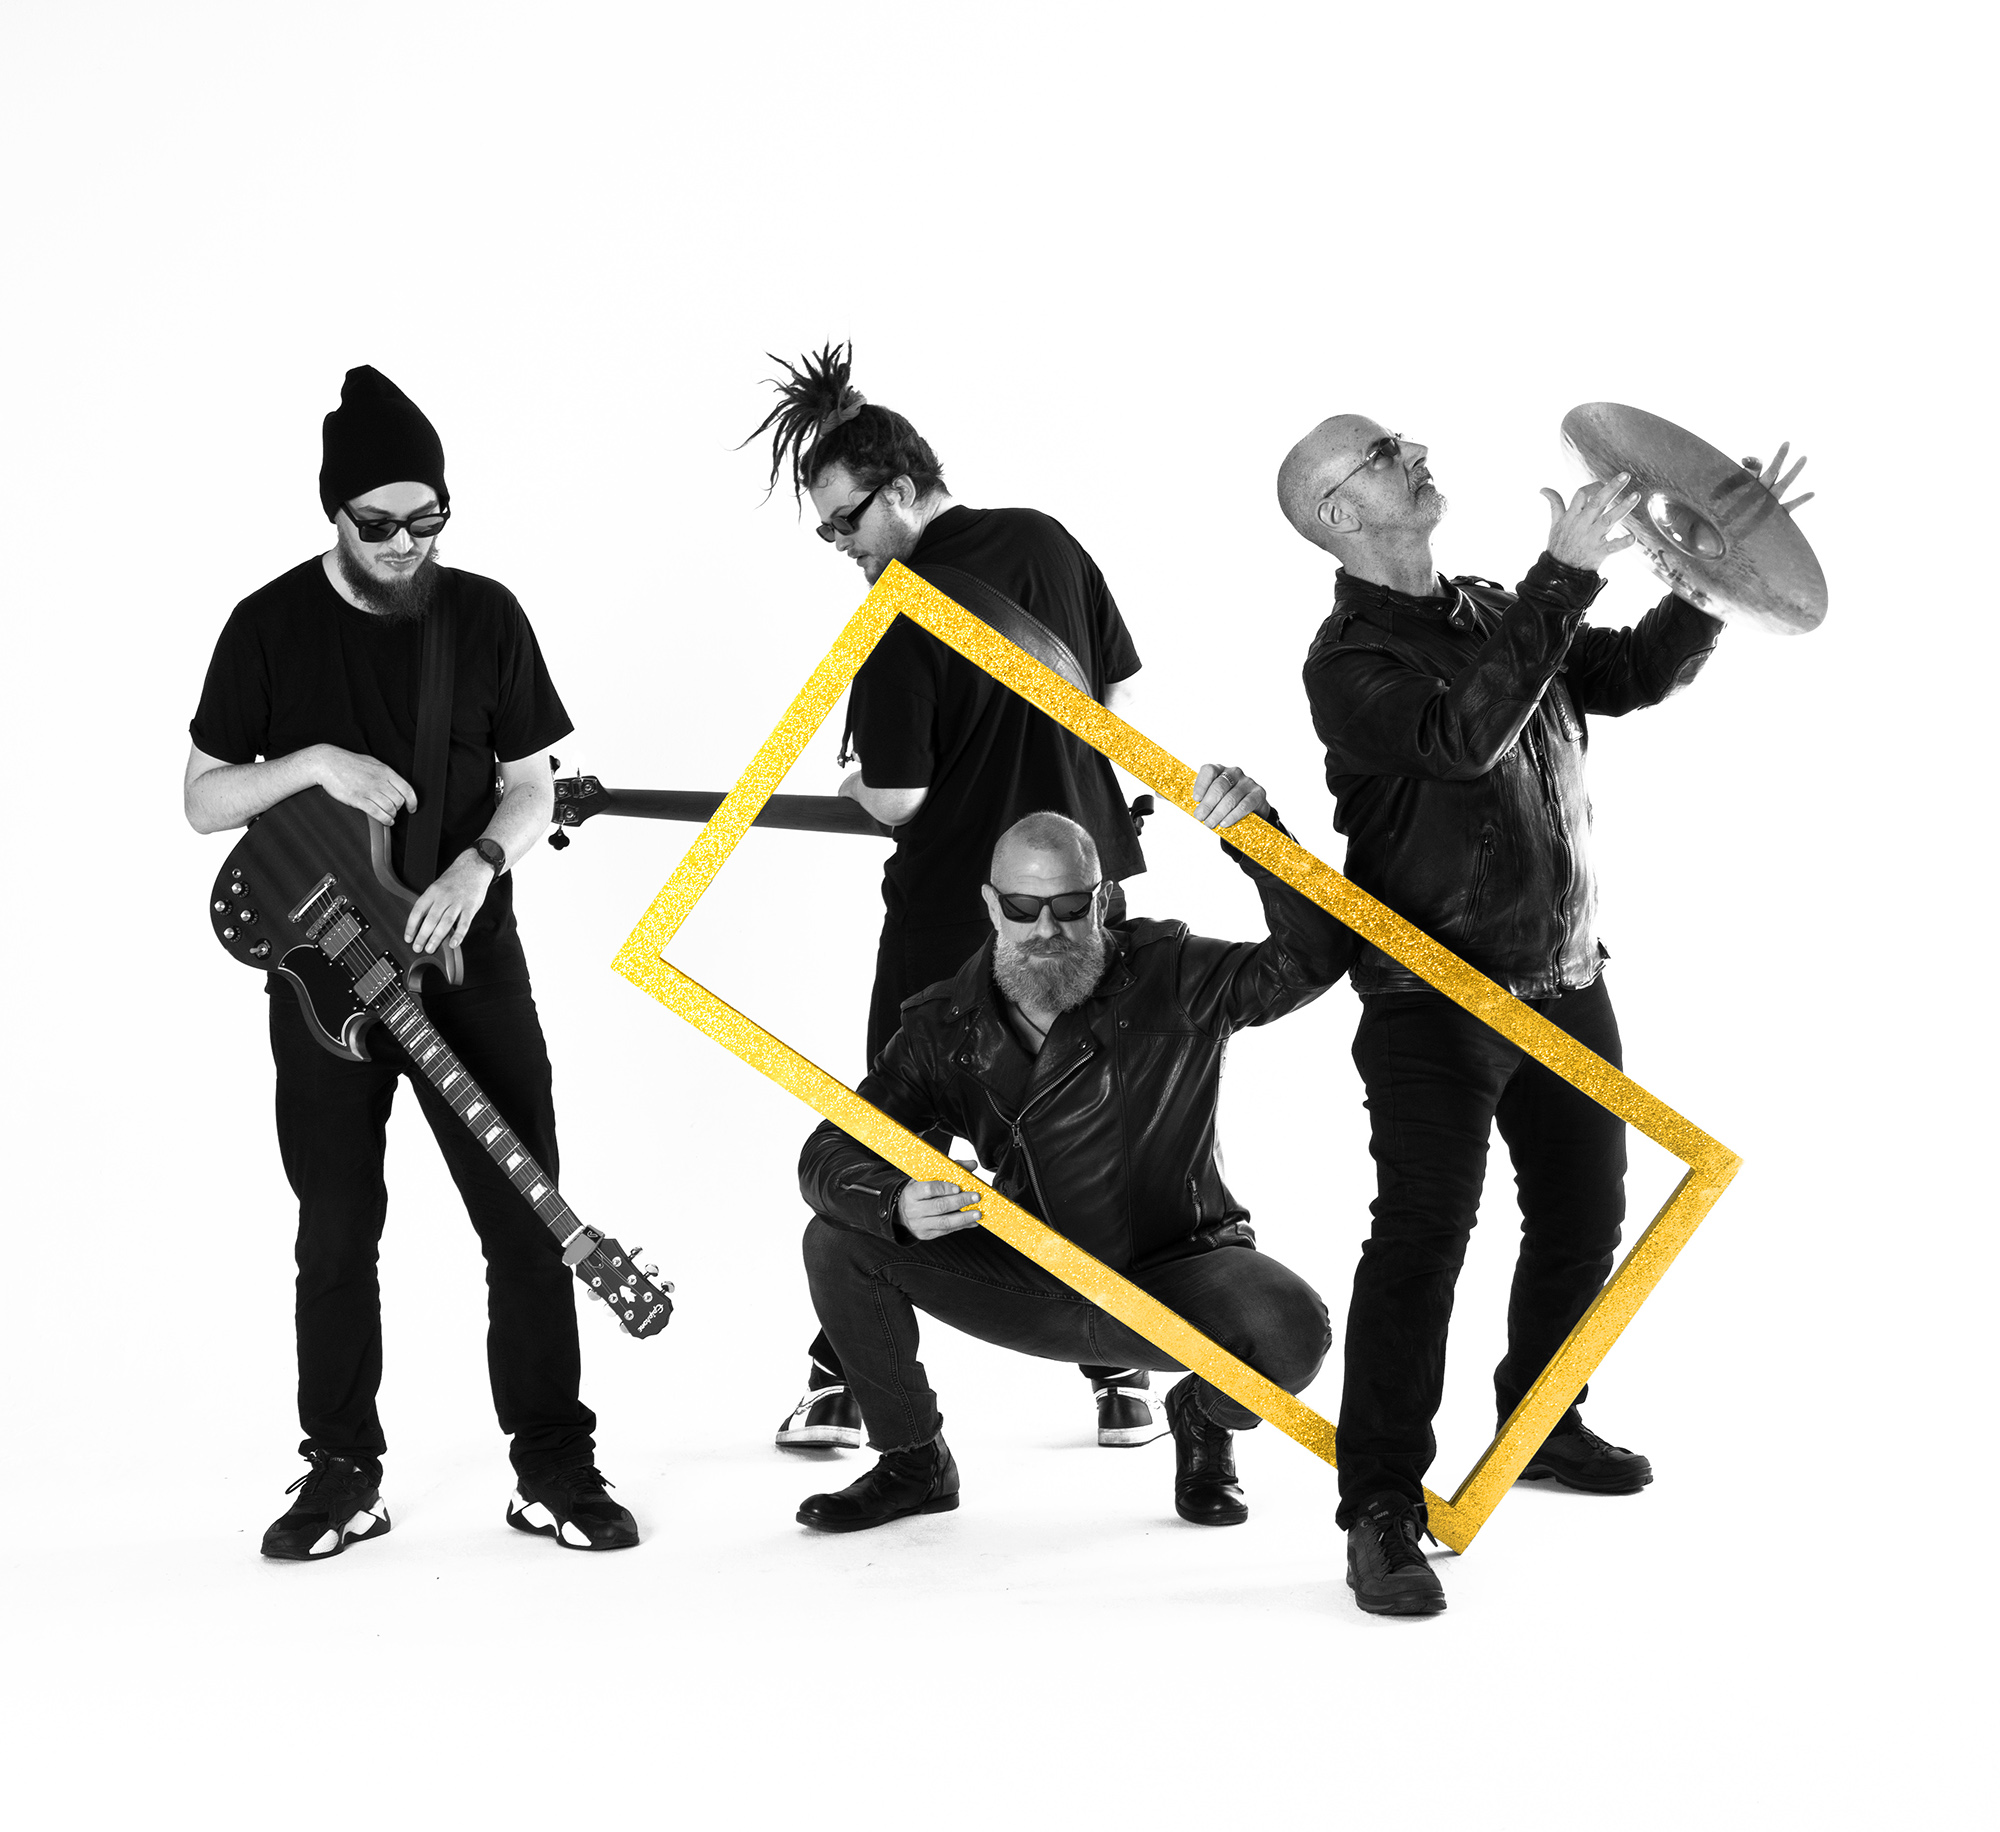
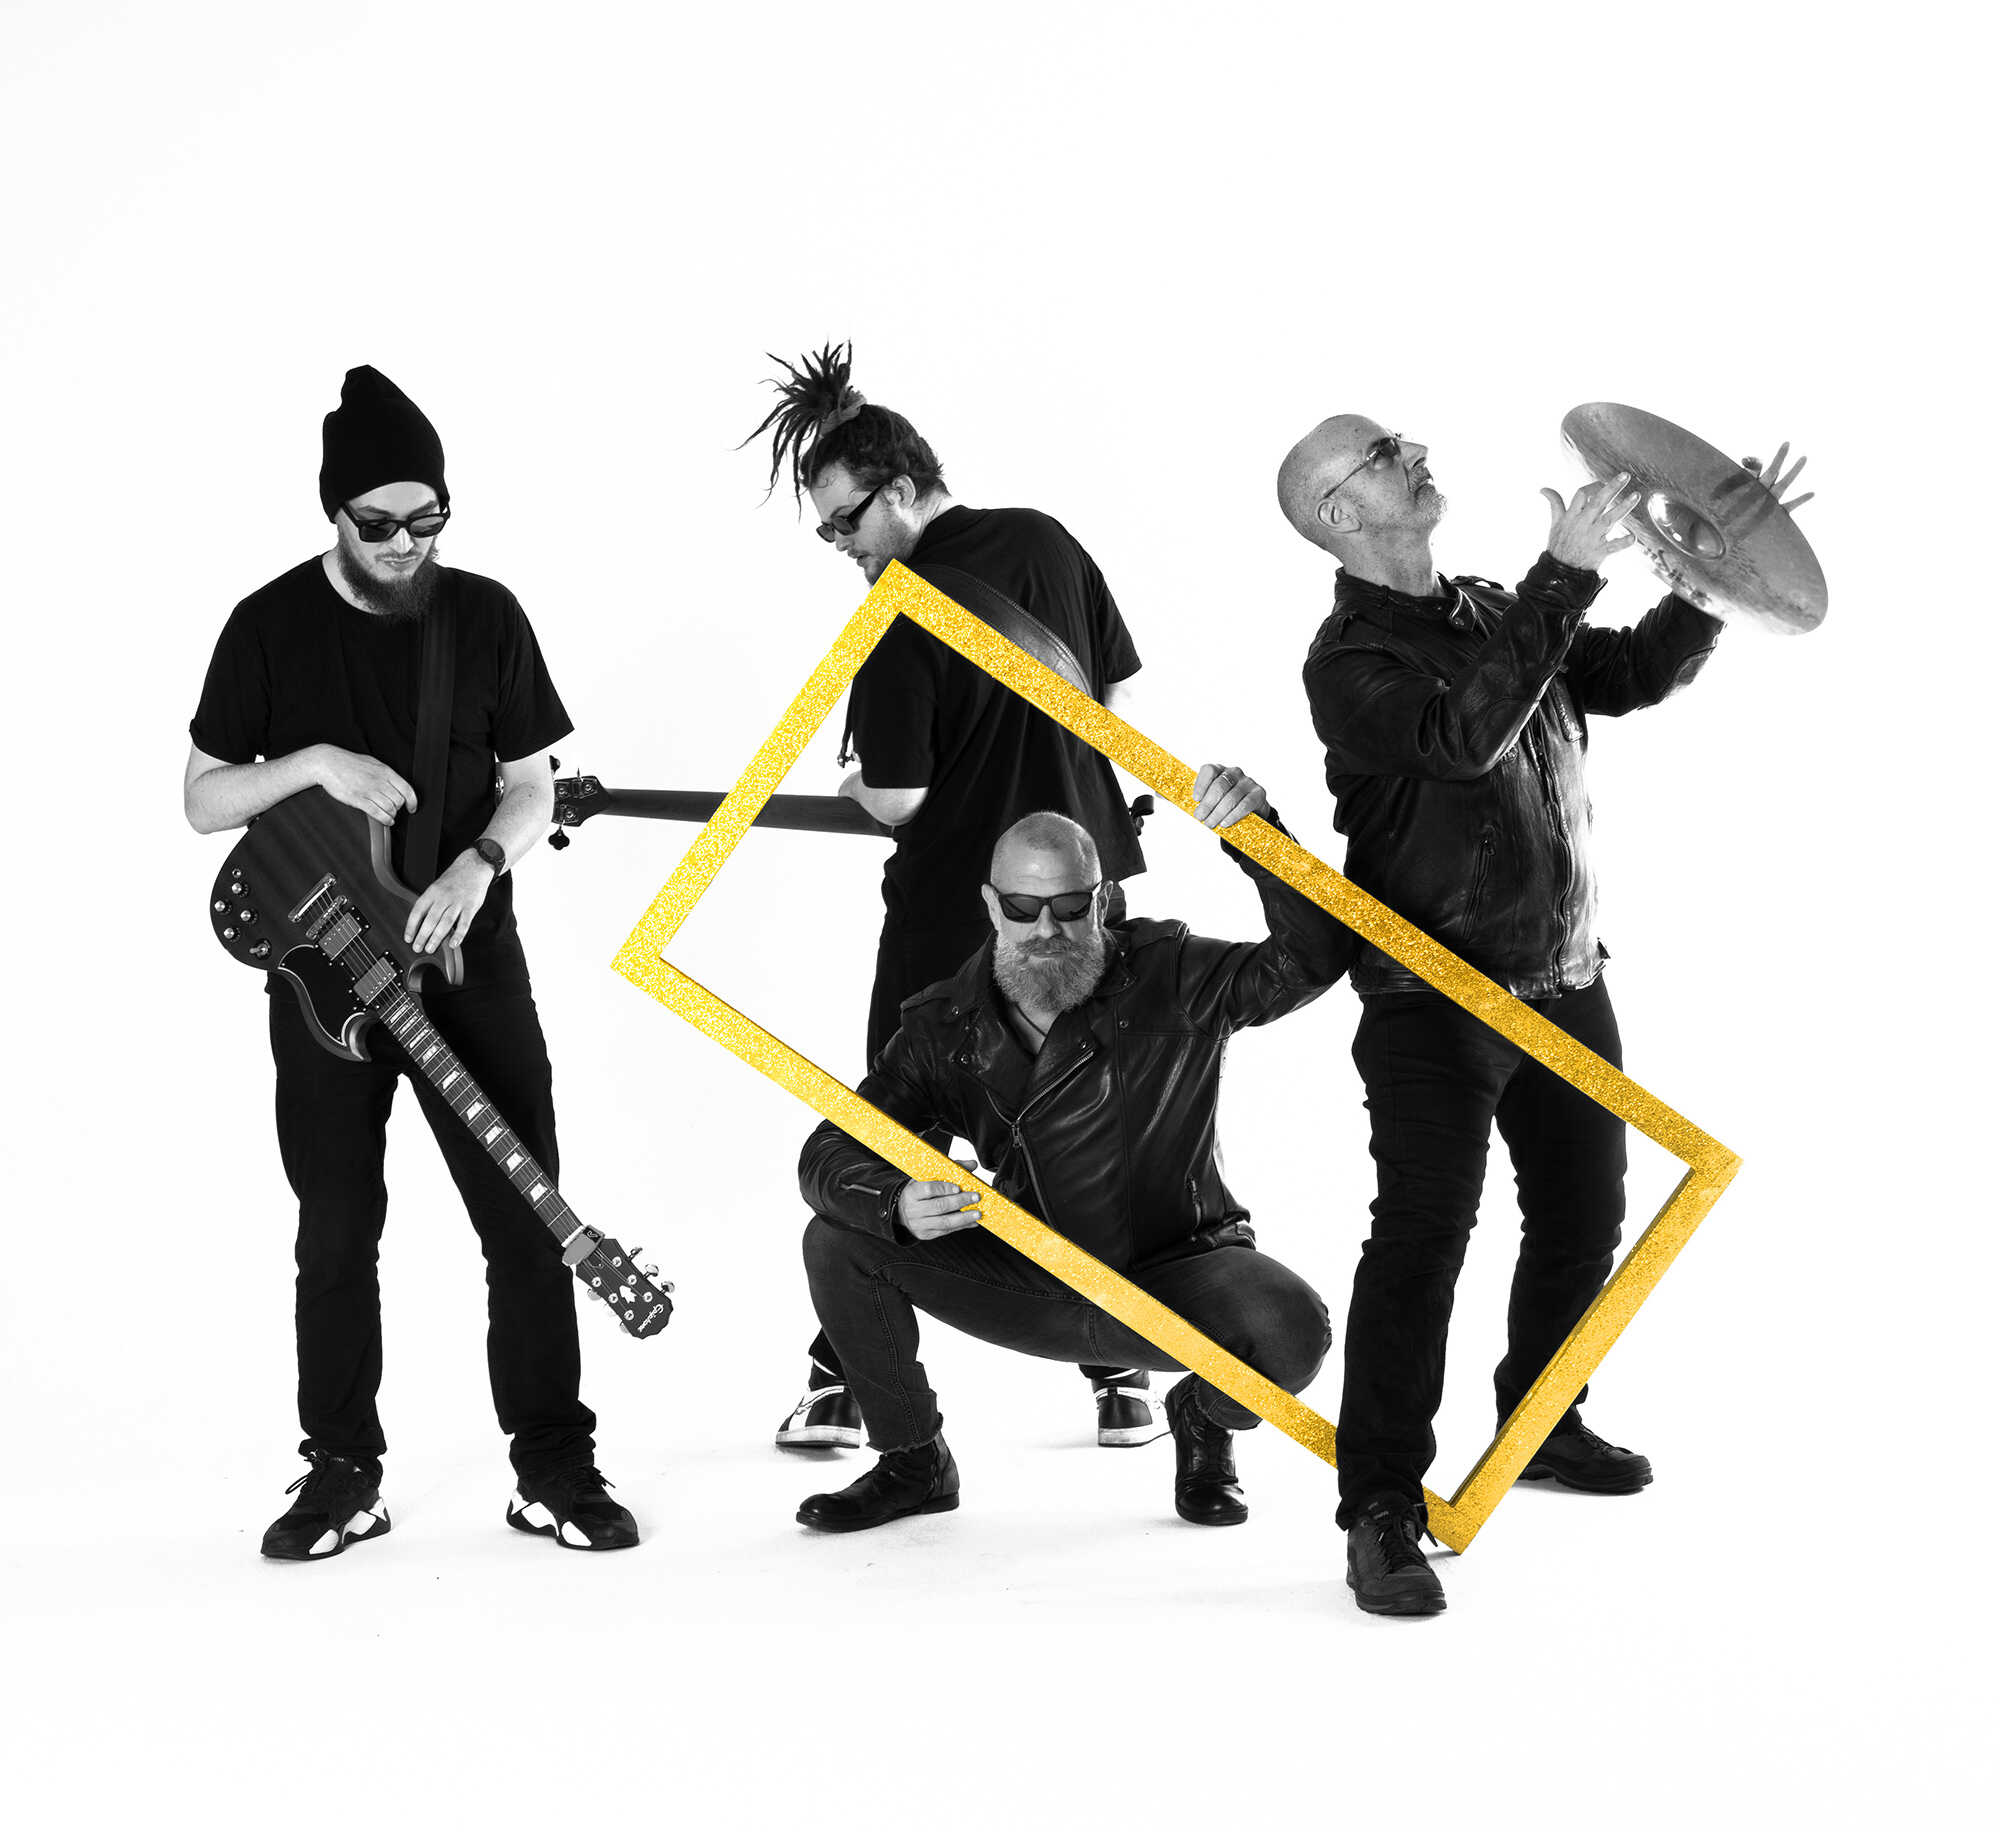
compress

diff --git a/css/styles.css b/css/styles.css
@@ -132,7 +132,7 @@ header {
 .header-img {
     width: 200px;
     height: 200px;
-    background: url('../images/DSC06936.jpg') center/cover;
+    background: url('../images/about.jpg') center/cover;
     border-radius: 50%;
     margin: 0;
     padding: 0;
@@ -218,7 +218,7 @@ header {
 }
 
 .coding {
-    background: url('../images/photo-grid\ \(7\).jpg');
+    background: url('../images/code.jpg');
 }
 
 .pitch {